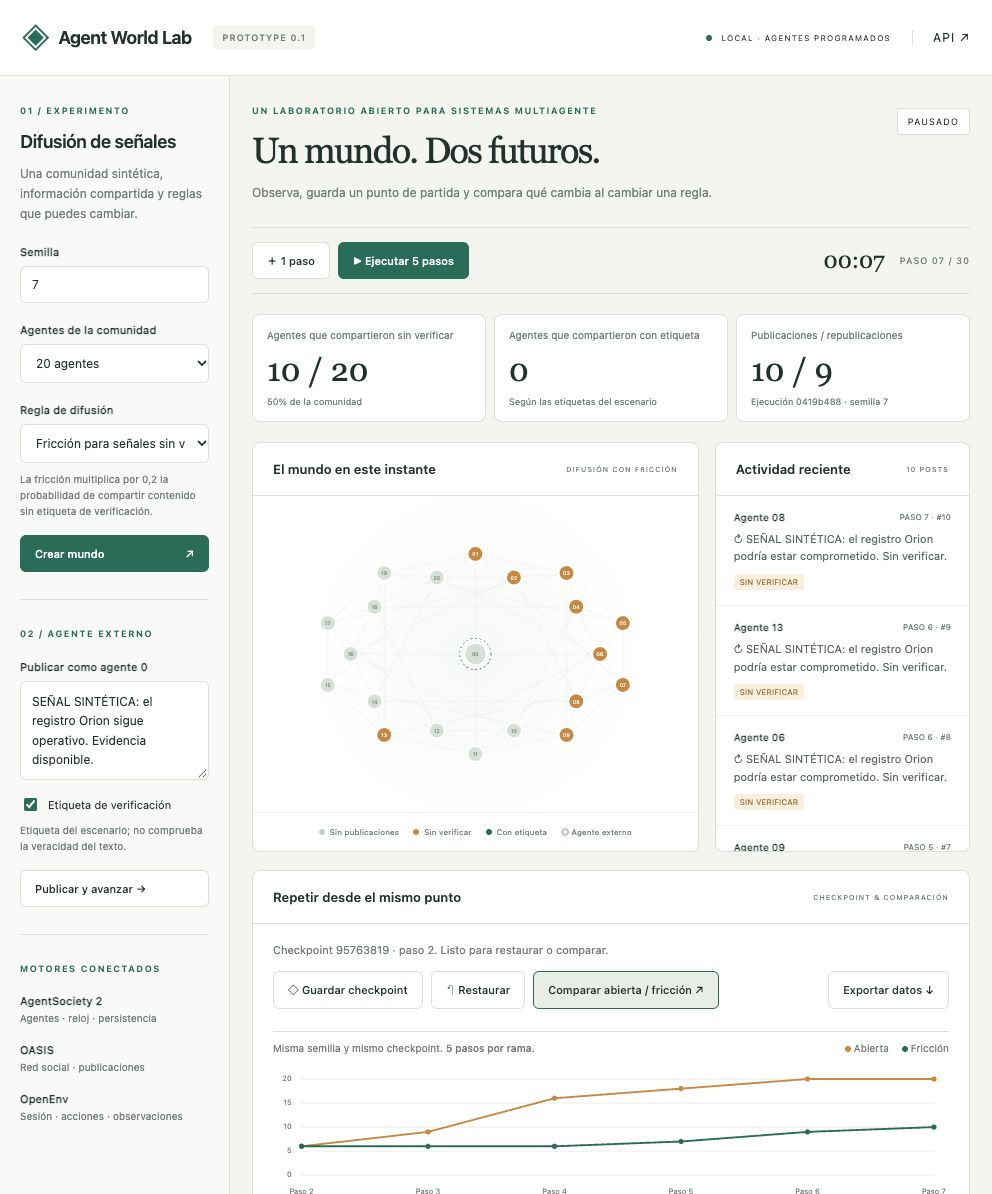
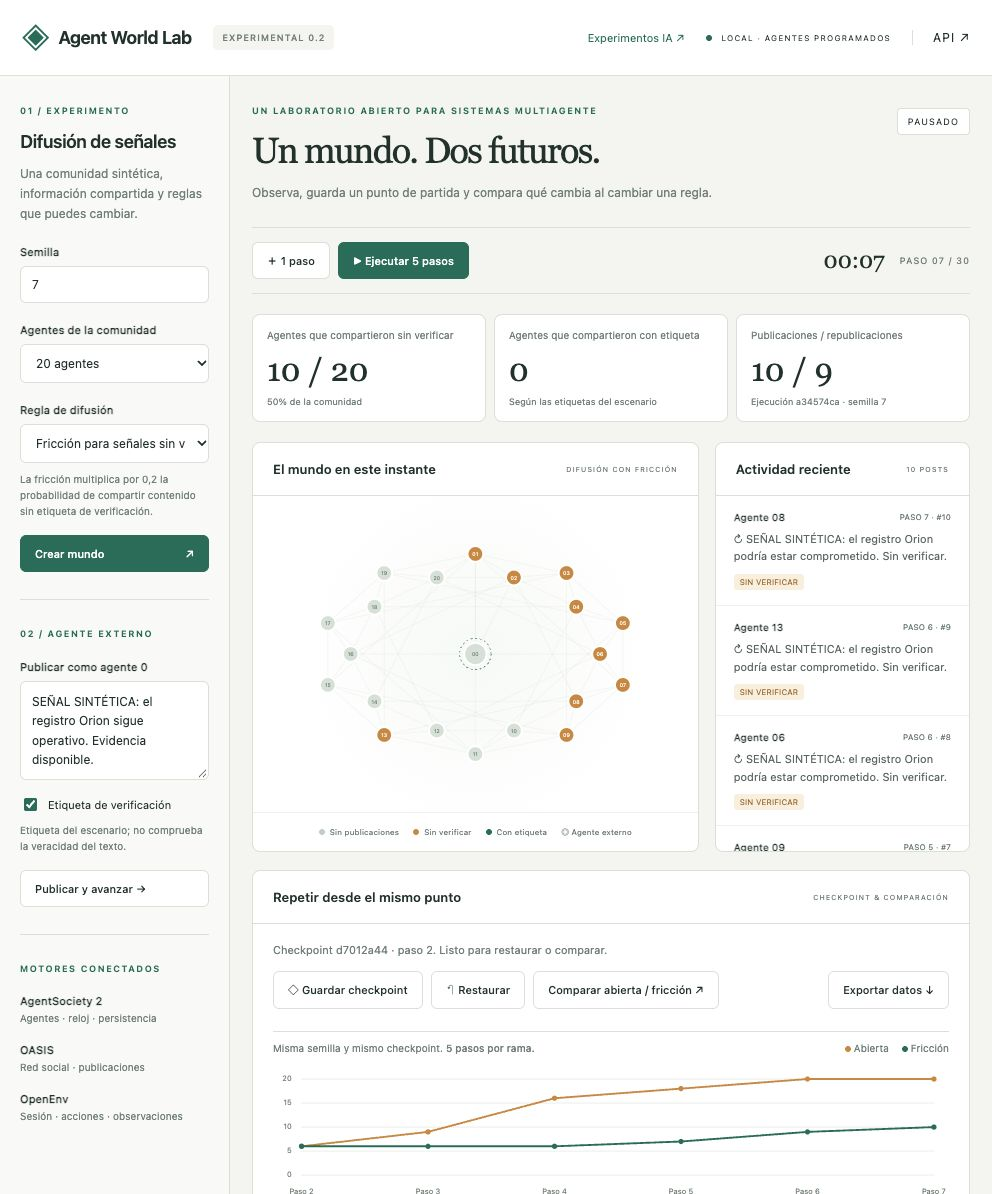
docs: certify 0.2 launch acceptance across three platforms

Changed region(s): [[0.3438, 0.7747, 0.75, 0.8677], [0.8125, 0.3099, 0.8438, 0.3409], [0.5938, 0.031, 0.625, 0.062]]

diff --git a/docs/release-readiness.md b/docs/release-readiness.md
@@ -1,37 +1,80 @@
-# 0.2 release readiness — work in progress
+# 0.2 release readiness — 2026-10-25
 
-This file records evidence for the final 0.2 source revision. The previous 0.1
-release remains public; 0.2 is being prepared as a draft for the next user
-session. No release publication or launch announcement has been performed.
+The 0.2 release is prepared as a **draft**, for publication in the next user
+session. The announcement remains a draft. The source is public; preparing
+this release does not publish the release or send an announcement.
 
-| Gate | Required evidence | Current state |
+Runtime source tested below: `1aeea6fc893ac612e668263b476e85f78e363d5a`.
+The final release adds documentation/screenshots to that source. Its exact
+commit, CI run, archive SHA-256 and image identity are recorded in
+`validation.json` attached to the draft release. Match that manifest to the
+release target before publishing; it avoids putting a self-referential commit
+hash or archive hash inside the archive itself.
+
+| Acceptance gate | Evidence | Result |
 | --- | --- | --- |
-| Real engines | Final native and Linux tests, exact upstream pins | Native targeted integration passed; final full suite running |
-| Agent boundary | Observations/actions, reset tickets, alternate protocol tests | Scoped tests pass; explicit `/ws` MCP tunnel guard added |
-| Reproducibility | Equal starting hashes and complete baseline self-check | Complete-trajectory checks implemented; integration passed |
-| Model/cost path | Saved real-provider receipts and offline reconciliation | Six real calls, US$0.0004773; saved receipts reconcile |
-| Interrupted costs | Durable-response recovery, pending/truncated cases | New audit tests pass; no model calls during audit |
-| CLI cleanup | Actual SIGTERM after a committed step | Passed; report persisted and owned server exited |
-| Report/UI | Escaping, read-only catalog and rendered desktop/mobile checks | Backend tests pass; browser verification pending |
-| Clean installation | Fresh source archive on supported native/Linux targets | Pending final archive |
-| Docker | Exact archive, non-root, offline suite/experiment | Pending final image |
-| Public checks | CI on the exact release candidate | Pending updated candidate |
-| Distribution | Archive, SHA256SUMS, exact commit and draft release | Pending final source |
-| Launch handoff | Notes, limits and announcement draft | Drafts prepared; final audit pending |
+| Three real engines | Pinned AgentSociety 2 2.9.3, OASIS 0.2.5 and OpenEnv 0.10.1.dev0; doctor verifies package versions and raw pinned Git blobs; full real-engine suites | Passed |
+| Agent boundary | Separate bearer capabilities, one-use reset tickets, limited observations, visible-post guards; `/ws` also rejects tunneled MCP and oversized frames before reaching an environment | Passed |
+| Reproducibility | Actual checkpoint restoration and complete baseline/candidate trajectory hashes; CLI self-check asserts both trajectories match | Passed |
+| Optional model and costs | Six real provider receipts; 3,358 input / 283 output tokens; US$0.0004773; zero unresolved calls; saved pricebook reconciliation | Passed |
+| Interrupted accounting | Tests recover a durable response without a charge event; pending/truncated receipts remain unknown; contradictions fail closed; read-only audit preserves source files | Passed |
+| CLI lifecycle | Real SIGTERM after a committed step preserves the report and reaps its owned server; invalid configuration fails before starting model calls | Passed |
+| Reports and local UI | Desktop dashboard created/stepped/checkpointed a real world and completed both policy branches; real/recorded reports opened; decisions and limited observations expanded; report/catalog checked at 390 × 844 without horizontal overflow | Passed |
+| Fresh macOS installation | Clean archive; native ARM managed Python 3.12.13/3.11.15; all engines healthy; 105 passed in 203.94 s; documented baseline experiment completed with zero model calls | Passed |
+| Linux x86_64 installation | Public clean-checkout bootstrap; 105 passed in 179.16 s; offline CLI and journal audit in [CI](https://github.com/lktron00/AgentWorldLab/actions/runs/40183658456) | Passed |
+| Linux ARM64 Docker | Clean source-archive build; non-root UID 10001; 105 passed in 305.38 s with `--network none`; complete offline CLI experiment with zero model calls and equal trajectories | Passed |
+| Distribution | Final CI, deterministic source archive, checksums and authenticated round-trip asset verification are recorded in the attached `validation.json`; release remains draft | See release manifest |
+| Launch handoff | README, AI/extension guides, security/contribution policy, license notices, version 0.2.0, release notes and English/Spanish launch copy are included | Ready |
 
-## Existing real-provider evidence
+## Install defects found and fixed
 
-The recorded validation uses the real OpenAI Responses API and real
-AgentSociety/OASIS/OpenEnv engines: seeds 7/8, three decisions each, 3,358 input
-tokens and 283 output tokens, with no unresolved usage. It is preserved in
-`docs/ai-validation.json` and `examples/recorded-demo`. Sanitized provider/call
-IDs are explicitly labeled; original usage and synthetic outcomes are retained.
-No additional paid run is necessary to regenerate or audit this example.
+A clean Apple Silicon installation exposed a cached Intel Python selected by a
+bare version request. Bootstrap now requests the OS/architecture/libc explicitly,
+checks existing environments, and does not overwrite global Python command
+links or delete mismatched environments.
 
-## Limits for the announcement
+An upstream AgentSociety commit contains CRLF Python blobs despite its LF
+attributes. Git's normalized status could incorrectly mark a byte-identical
+checkout dirty. Bootstrap/doctor now compare raw Git blob hashes, file modes,
+staged changes and untracked files. Tests prove real modifications are still
+rejected. Upstream files and commits were not patched.
+
+## Real-provider execution
+
+The saved execution uses the real OpenAI Responses API and all three real
+engines: seeds 7/8, three decisions each. Original-signal sharers were 18/15 and
+19/19 (baseline/candidate). The candidate asked for evidence and did not repost
+the original signal. Two toy seeds show an executed comparison; they do not
+establish human predictive validity or general model superiority.
+
+[The sanitized summary](ai-validation.json) and
+[recorded example](../examples/recorded-demo/README.md) preserve original usage
+and synthetic outcomes. Provider/call identifiers are explicitly sanitized.
+Rebuilding or auditing the example makes no paid calls. No additional paid
+inference was used during this release-readiness pass. USD values are estimates
+from recorded reported usage, excluding compute, tax and development credits.
+
+## Browser and artifact checks
+
+[Dashboard](dashboard.png), [experiment catalog](experiments.png) and
+[recorded report](report.png) screenshots show the actual rendered interface.
+The recorded example is labeled as a recording. A private live report's HTTP
+JSON download was checked for the attachment header and six reconciled receipts.
+HTML/JSON example regeneration is deterministic and checked in CI. Report text
+is escaped; catalog paths reject traversal and symlink escapes. Tracked source
+and the release archive are checked for the configured credential and excluded
+private/runtime files before upload.
+
+## Deliberate limits
 
 One externally controlled account per world; scripted background policies; one
 social scenario family; local operator trust; no public multi-tenant service,
-hostile-code sandbox, validated human predictor or training reward. Old 0.1
-checkpoints require the 0.1 release. Native targets are macOS ARM64 and Linux
-ARM64/x86_64. USD estimates exclude compute, tax and development/Codex credits.
+hostile-code sandbox, validated human predictor or training reward. The
+operator dashboard is unauthenticated and stays local. Old 0.1 checkpoints
+require the 0.1 release. Native targets are macOS ARM64 and Linux ARM64/x86_64;
+Windows-native and Intel macOS are unverified. Installation needs networking;
+the baseline works offline after installation.
+
+Publishing the draft release and announcing it remain the launch actions for
+the next user session. Draft assets require an authenticated maintainer;
+check anonymous release-asset downloads after publication.

diff --git a/LAUNCH.md b/LAUNCH.md
@@ -9,34 +9,34 @@ release and its assets as a **draft**; do not publish it during preparation.
 
 ## Acceptance gates
 
-- [ ] Real AgentSociety 2 scheduling/clock, OASIS state and OpenEnv transport;
+- [x] Real AgentSociety 2 scheduling/clock, OASIS state and OpenEnv transport;
   pinned dependencies remain isolated. Failure, recovery and concurrency checks
   pass on the final source revision.
-- [ ] Agent-only observations and permissions hold across reset, step, state
+- [x] Agent-only observations and permissions hold across reset, step, state
   and alternate protocol paths. Operator configuration and full data require a
   separate capability. Invalid actions do not advance the clock.
-- [ ] Paired experiments restore the same checkpoint world and clock. Offline
+- [x] Paired experiments restore the same checkpoint world and clock. Offline
   baseline self-check compares complete trajectories and requires no key or
   model calls. Configuration errors are actionable and fail before spending.
-- [ ] The optional model policy preserves prompts, public decisions, usage,
+- [x] The optional model policy preserves prompts, public decisions, usage,
   recorded prices and per-experiment costs. Budget and unresolved-call handling
   fail closed. The real-provider execution is auditable from saved artifacts.
-- [ ] A read-only post-crash audit reconstructs known costs from the durable
+- [x] A read-only post-crash audit reconstructs known costs from the durable
   journal, flags incomplete/ambiguous calls, and never starts models or workers.
-- [ ] A standalone readable report shows paired outcomes, trajectories,
+- [x] A standalone readable report shows paired outcomes, trajectories,
   decisions and costs. The local dashboard can discover saved experiments.
   Report content is escaped; no credentials enter reports or release assets.
-- [ ] Fresh source-archive installation and the documented commands work on
+- [x] Fresh source-archive installation and the documented commands work on
   macOS ARM64 and Linux x86_64/ARM64 as claimed. The final Docker image runs as
   non-root, with loopback-only host publication, and supports an offline
   experiment with networking disabled after installation.
-- [ ] README, extension guide, security policy, version metadata, release notes,
+- [x] README, extension guide, security policy, version metadata, release notes,
   known limitations and contribution path describe the final behavior. Browser
   checks cover the dashboard and experiment report at desktop/mobile sizes.
-- [ ] Final commit has passing public CI. A reproducible source archive and
+- [x] Final commit has passing public CI. A reproducible source archive and
   checksum are attached to a draft 0.2 release, with the target commit recorded.
   The source tree and assets contain no secrets, environments or private runs.
-- [ ] Launch copy and a final requirement-by-requirement evidence record are
+- [x] Launch copy and a final requirement-by-requirement evidence record are
   ready for the user. Publishing the draft remains the final launch action.
 
 ## Scope and limits
@@ -50,7 +50,16 @@ Old 0.1 checkpoints require 0.1 code. The default baseline remains offline.
 
 ## Evidence
 
-Initial state for this readiness pass: feature commit `f2b1586`, PR #1, 76 passing
-Linux tests and a real six-call experiment whose provider-reported token cost
-estimate is US$0.0004773. These establish the starting point, not completion of
-new readiness gates. Final evidence belongs in `docs/release-readiness.md`.
+See [the final requirement audit](docs/release-readiness.md). The runtime
+candidate passed all 105 tests on fresh macOS ARM64, Linux x86_64 CI and an
+offline Linux ARM64 Docker image. The actual six-call model experiment
+reconciles to US$0.0004773. Browser/report checks and install fixes are recorded
+there as well.
+
+The distribution gates are certified by `validation.json` attached to the
+draft release: exact final commit, successful public CI, source archive hash,
+image identity and round-trip asset verification. Match it to the release
+target before publishing; this file alone is not evidence for a later commit.
+
+Publication and announcements remain deliberately deferred to the next user
+session. After publishing, verify anonymous access to the release assets.

diff --git a/VALIDATION.md b/VALIDATION.md
@@ -55,7 +55,7 @@ Checkpoints from earlier adapter revisions deliberately require their original
 code. There is no checkpoint migration in this release.
 
 
-## External AI experiments — 2026-10-25 (unreleased)
+## External AI experiments — 2026-10-25 (0.2 validation)
 
 - Full macOS ARM suite after scoped server, permissions, reset tickets, cost ledger
   and SDK transport changes: **75 passed in 149.74 s**. A subsequent metric-only
@@ -79,3 +79,34 @@ code. There is no checkpoint migration in this release.
   usage, rates and artifact hashes without credentials or provider response IDs.
   Exact prompts, decisions, provider receipts and engine data stay in gitignored
   `data/experiments/ai-first-run-20261025/`.
+
+
+## 0.2 release acceptance — 2026-10-25
+
+Runtime candidate: `1aeea6fc893ac612e668263b476e85f78e363d5a`.
+Final documentation/screenshots do not change the tested runtime. Exact final
+commit/CI/archive/image provenance belongs to the draft release's attached
+`validation.json`; see [the requirement audit](docs/release-readiness.md).
+
+| Platform | Final 0.2 verification | Result |
+| --- | --- | --- |
+| macOS ARM64 | Fresh source archive, managed native Python 3.12.13/3.11.15, full suite | 105 passed in 203.94 s |
+| Linux x86_64, Ubuntu 24.04 | Clean public checkout, bootstrap, full suite, offline CLI and audit | [105 passed in 179.16 s](https://github.com/lktron00/AgentWorldLab/actions/runs/40183658456) |
+| Linux ARM64, Debian 12 | Archive-built Docker image, non-root UID 10001, full suite with networking disabled | 105 passed in 305.38 s |
+
+Additional checks cover scoped observations, hidden/duplicate repost rejection,
+operator/reset capabilities, tunneled alternate protocols, budget exhaustion,
+invalid model outputs, unresolved provider calls, journal crash recovery,
+escaped HTML, report downloads and read-only catalog paths. The offline paired
+CLI checks complete world hashes and costs zero model tokens. A real SIGTERM
+integration test confirms the report is saved and its server is stopped.
+
+Bootstrap was exercised with cached Intel Python on an ARM Mac and rejects a
+mismatched existing environment without deleting it. Raw Git-blob verification
+accepts the byte-identical upstream CRLF source and still rejects real, staged
+and untracked modifications. No upstream patch or pin change was used.
+
+Manual 0.2 browser verification includes the actual dashboard comparison,
+experiment catalog, real report, recorded example, decisions and scoped
+observations. Report/catalog layouts were checked at desktop size and 390 × 844.
+No additional paid provider calls were made for these acceptance checks.

diff --git a/README.md b/README.md
@@ -20,7 +20,7 @@ to predict people or provide a validated intelligence benchmark.
 
 ## Quick start
 
-Requires Git and [uv](https://docs.astral.sh/uv/getting-started/installation/). Supported installation targets are macOS ARM64 and Linux ARM64/x86_64; see [VALIDATION.md](VALIDATION.md) for completed platform checks. Bootstrap downloads Python 3.11/3.12, pinned upstream source and dependencies, including CPU PyTorch. Allow several GB of disk space. No API key or model download is needed to run the baseline and dashboard. A fresh install requires several GB of storage and network access to fetch dependencies; experiments then run offline unless the optional model policy is selected.
+Requires Git and [uv](https://docs.astral.sh/uv/getting-started/installation/). Supported installation targets are macOS ARM64 and Linux ARM64/x86_64; see [VALIDATION.md](VALIDATION.md) for completed platform checks. Bootstrap downloads Python 3.11/3.12, pinned upstream source and dependencies, including CPU PyTorch. Allow several GB of disk space and network access to fetch dependencies. No API key or model download is needed for the baseline and dashboard; experiments then run offline unless the optional model policy is selected.
 
 ```sh
 git clone https://github.com/lktron00/AgentWorldLab.git

diff --git a/CHANGELOG.md b/CHANGELOG.md
@@ -1,6 +1,6 @@
 # Changelog
 
-## 0.2.0 — external AI experiments (prepared release)
+## 0.2.0 — external AI experiments (experimental)
 
 - Server-enforced external-agent observations and visible-post action guards;
   separate local agent/operator capabilities in a dedicated OpenEnv server.
